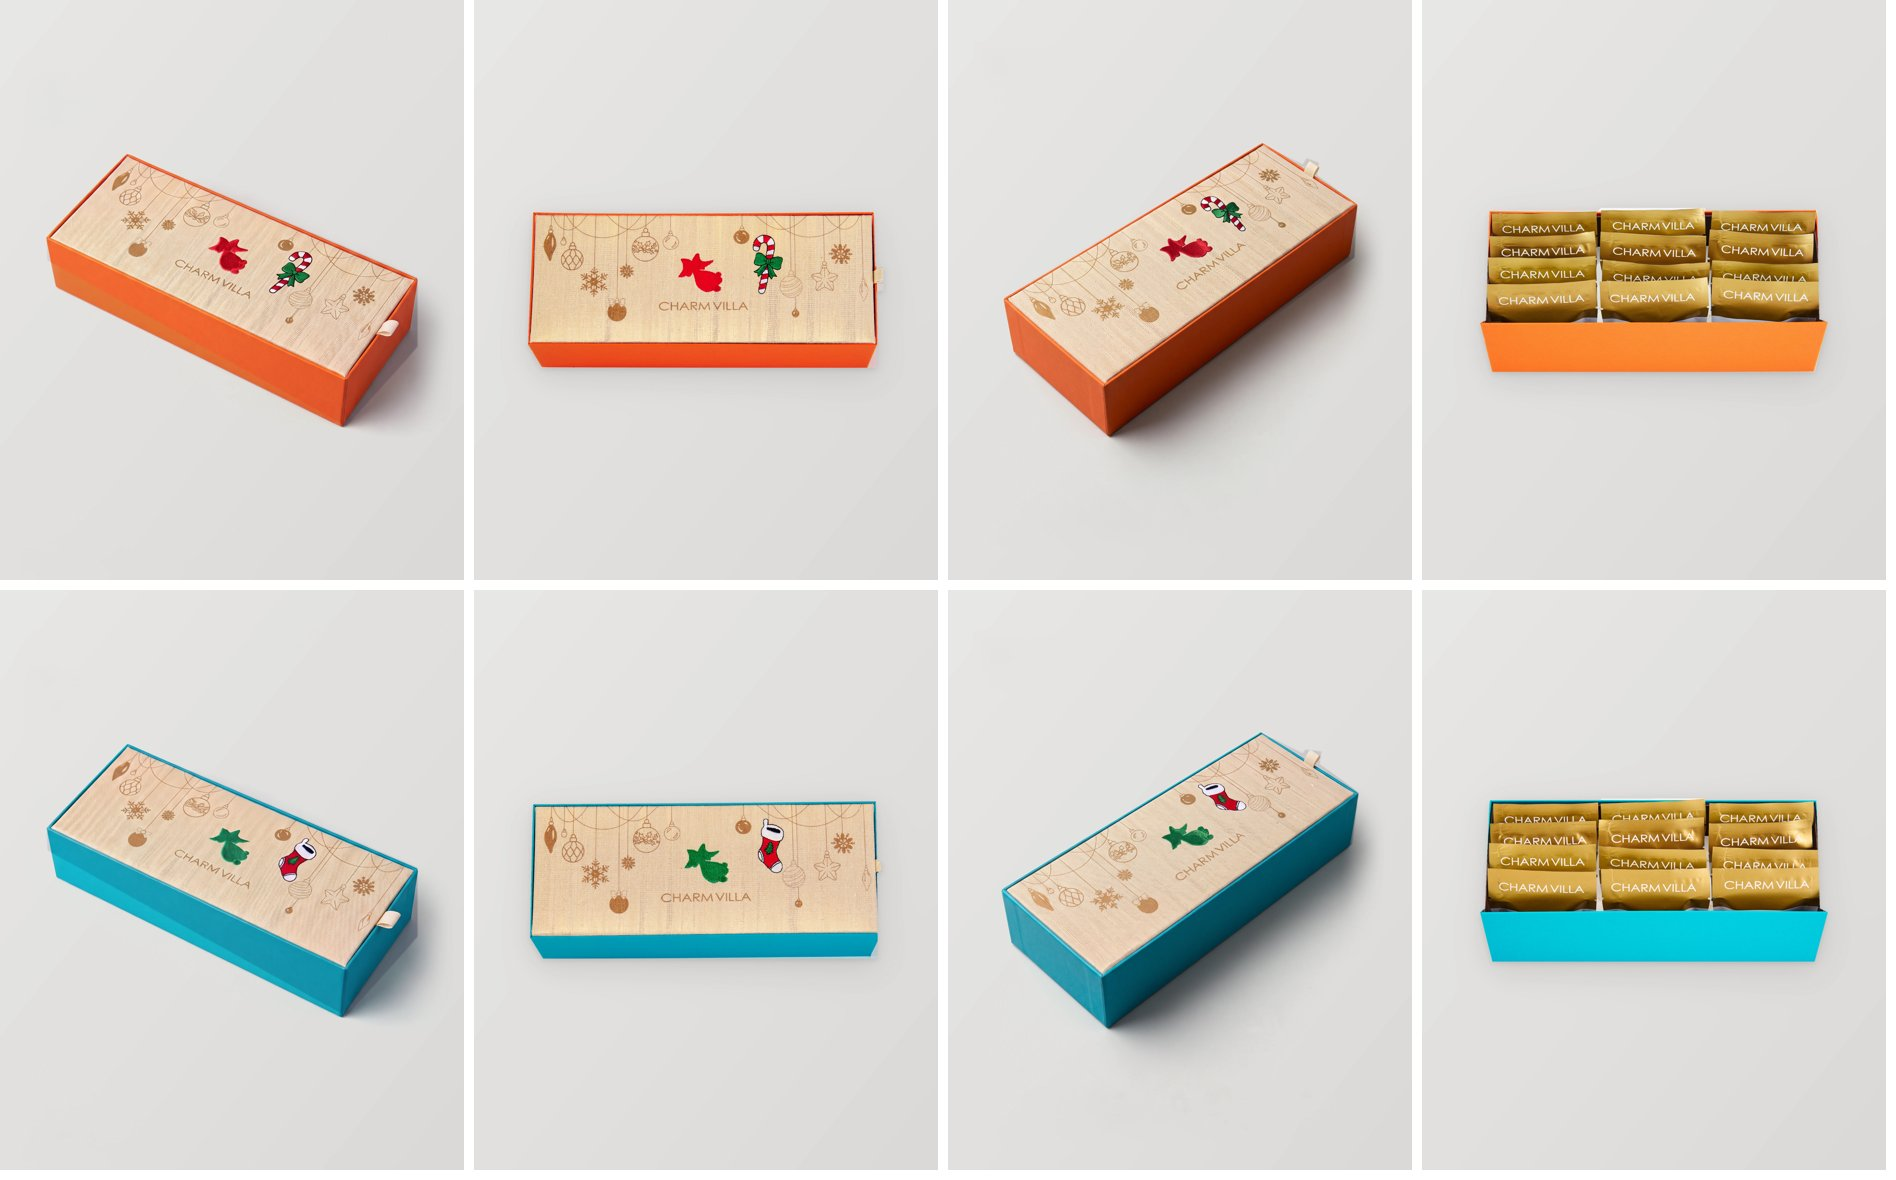
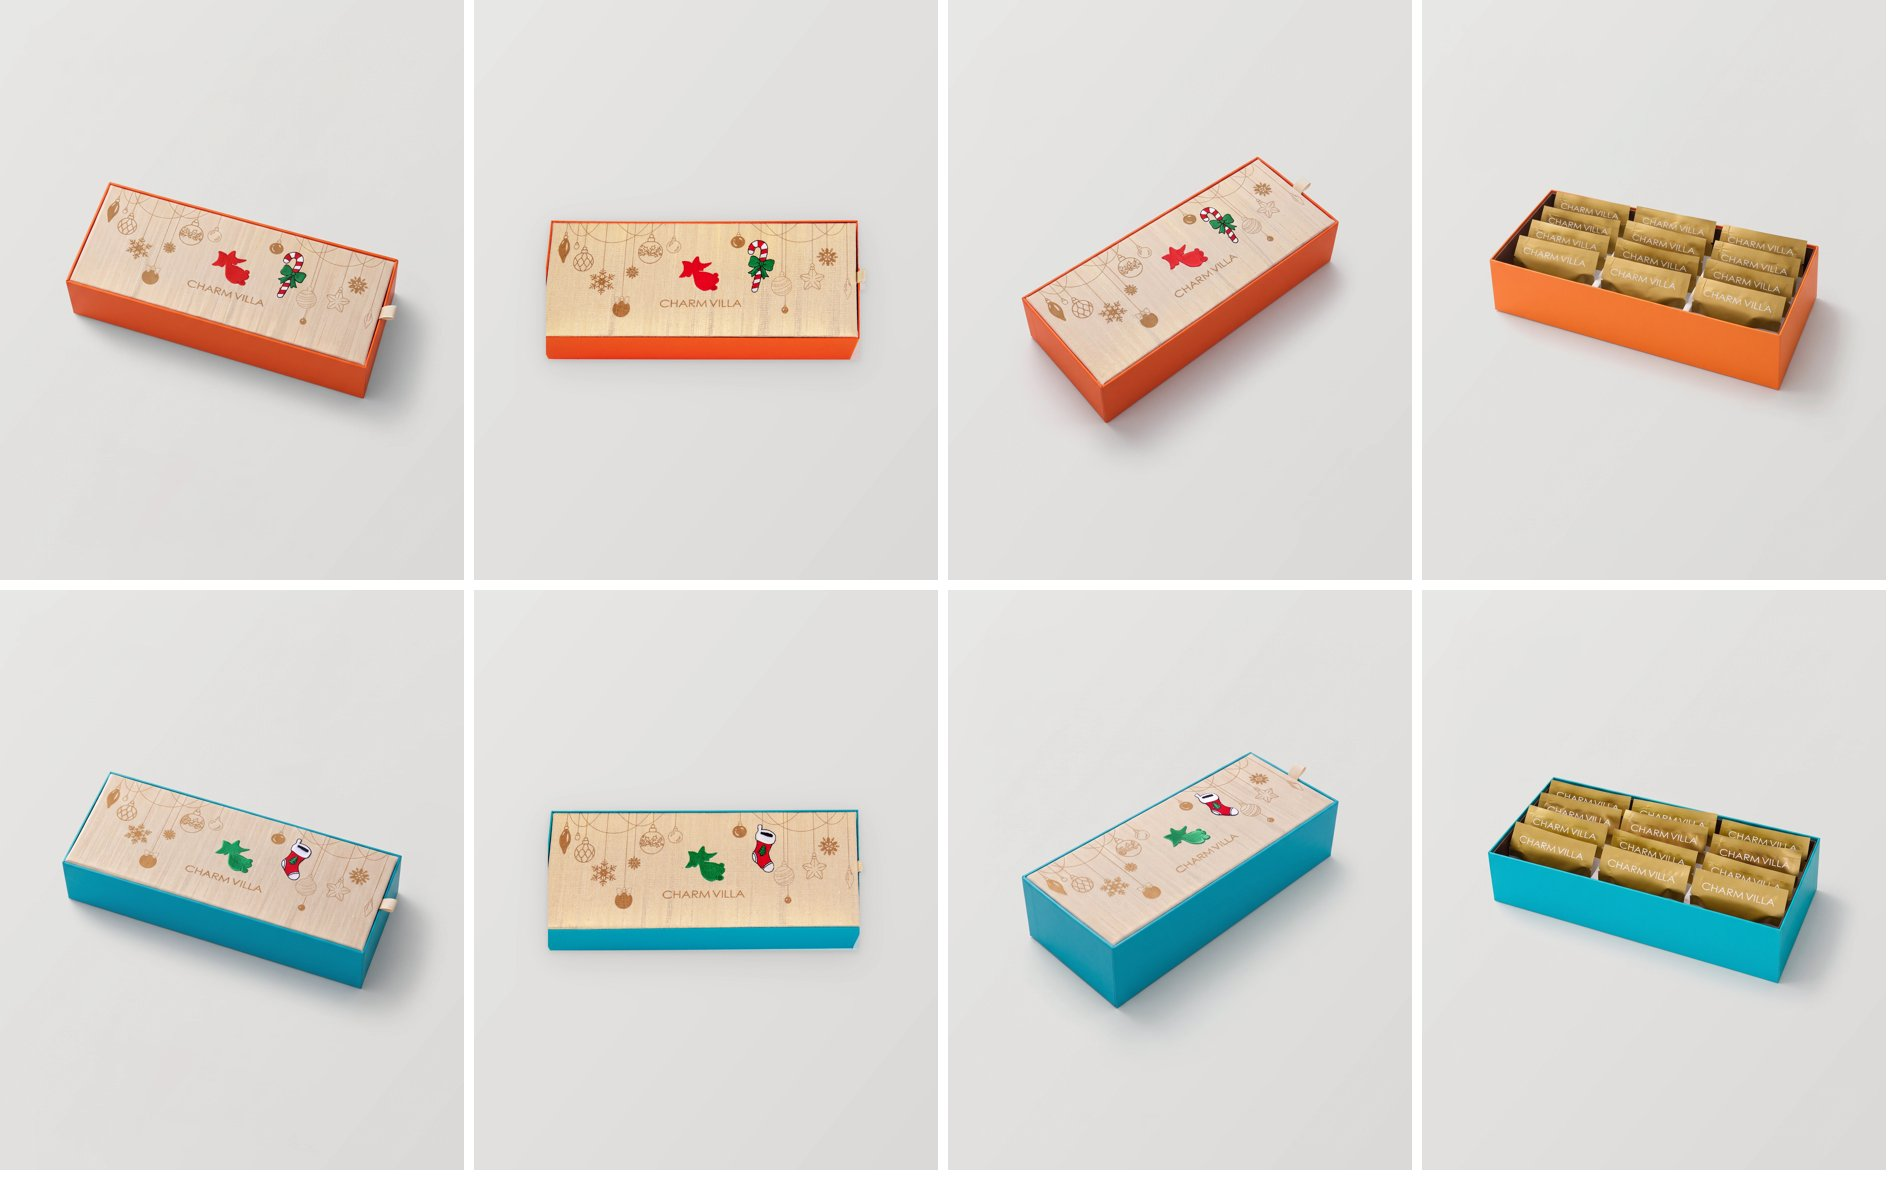
Christmas Delight: gallery redone in the site's studio style, price to be announced
User 2026-10-13: 「影子都處理得很醜！！！不要再犯，參考其他商品頁的攝影風格與影子處理的手法全部修正」, 「盒子外盒也有問題」,
「US$130 幫我用價格代訂，不要自己亂寫」.
- Cover, angle and unboxed (both lids) regenerated against the site's own same-view photographs (spring dawn cover,
  end angle, unboxed 12) for light and shadow: high-key, soft pale shadow to the lower right, no dark base line, no
  seam across the tray; normalised at norm.py 0.45 like every gift box. Fronts are the client's photographs
  perspective-corrected (the tray had become a trapezoid) and cut out the same way as the other fronts. New -v3 names.
- No invented price: priceTbd shows 價格待訂 / Price to be announced on the page and card, the bag button disabled.
- LESSONS.md: match the site's same-view photos for shadow, keystone close-up product photos, never invent a price.

diff --git a/src/data/tea-gifts.ts b/src/data/tea-gifts.ts
@@ -53,6 +53,8 @@ export type TeaGift = {
   soldOut?: boolean;
   /** made to order: a 預購 / Pre-order label beside the price and a 加入預購 / Pre-order button (ship timing still to come from the client) */
   preOrder?: boolean;
+  /** no price yet: 價格待訂 / Price to be announced instead of a price, and no bag button (user 2026-10-13: 「US$130 幫我用價格代訂，不要自己亂寫」) */
+  priceTbd?: boolean;
   /** not sold on the US store: kept out of every listing, menu, sitemap and product page (404), data kept */
   hidden?: boolean;
   variant?: { group: string; label: string };
@@ -168,11 +170,11 @@ export const teaGifts: TeaGift[] = [
   // 2026-10-13 agent 推理暫定，待客戶確認（確認表 F1–F8）（使用者 2026-10-13：「F1–F8 你先根據目前的官網推理，我再請客戶修改，先上 demo2」）。
   // officialId 9001 只是暫定的唯一值，台灣官網沒有這個商品編號（沒有官方商品圖、也不連到台灣官網）。
   // 兩色盒蓋同內容同價，用 packaging（選色＝切換圖庫）：橘色是預設圖庫，藍綠色用自己的 4 張圖（含自己的紙盒開箱圖，不用 12 入木盒的開箱圖）。
-  { officialId: 9001, slug: "christmas-gift-box", preOrder: true, sceneFile: "scene-christmas-gift-box-two-boxes-window-light.webp", name: "聖誕佳禮", english: "CHRISTMAS DELIGHT", series: "2026 聖誕節限定商品", pieces: 12, box: paperDrawerEmbroidered, dimensions: longBox, weight: 300, shelfLife: "1 年", contents: reunion, usd: 130,
+  { officialId: 9001, slug: "christmas-gift-box", preOrder: true, sceneFile: "scene-christmas-gift-box-two-boxes-window-light.webp", name: "聖誕佳禮", english: "CHRISTMAS DELIGHT", series: "2026 聖誕節限定商品", pieces: 12, box: paperDrawerEmbroidered, dimensions: longBox, weight: 300, shelfLife: "1 年", contents: reunion, priceTbd: true,
     packaging: [
       { label: { zh: "橘色", en: "Orange" }, text: { zh: "橘色盒蓋，紅色小金魚刺繡搭配拐杖糖。", en: "Orange lid with a red embroidered goldfish and a candy cane." } },
       { label: { zh: "藍綠色", en: "Teal" }, text: { zh: "藍綠色盒蓋，綠色小金魚刺繡搭配聖誕襪。", en: "Teal lid with a green embroidered goldfish and a Christmas stocking." },
-        lidViews: { cover: "studio-christmas-gift-box-teal-cover.webp", front: "studio-christmas-gift-box-teal-front.webp", angle: "studio-christmas-gift-box-teal-angle.webp", unboxed: "studio-christmas-gift-box-teal-unboxed.webp" } },
+        lidViews: { cover: "studio-christmas-gift-box-teal-cover-v3.webp", front: "studio-christmas-gift-box-teal-front-v3.webp", angle: "studio-christmas-gift-box-teal-angle-v3.webp", unboxed: "studio-christmas-gift-box-teal-unboxed-v3.webp" } },
     ],
     description: "CHARM VILLA「聖誕佳禮」禮盒內含 12 包金魚茶包，四款茶各 3 包，以抽屜式紙盒搭配刺繡織布盒蓋呈現。可選擇橘色或藍綠色盒蓋，為佳節送上一份溫暖的心意。",
     story: { title: { zh: "故事", en: "Story" }, body: { zh: "金色的吊飾與雪花垂落在盒蓋上，小金魚帶著拐杖糖與聖誕襪游進佳節。打開抽屜，十二尾小金魚茶包，陪你與重要的人共度溫暖的冬日時光。", en: "Gold baubles and snowflakes hang across the lid as a little goldfish swims into the season with a candy cane or a Christmas stocking. Slide open the drawer to find twelve Goldfish Tea Bags, ready for warm winter hours with the people who matter most." } },
@@ -297,10 +299,11 @@ export const teaGiftProductsFor = (lang: Locale): Product[] => {
       ...(gift.slug !== "fruit-infusion-gift-box" ? { brew: { title: t("沖泡方式", "How to brew"), steps: brewSteps(t), image: brewImage(t) } } : {}),
       ...(gift.soldOut ? { soldOut: true } : {}),
       ...(gift.preOrder ? { preOrder: true } : {}),
+      ...(gift.priceTbd ? { priceTbd: true } : {}),
       ...(gift.hidden ? { hidden: true } : {}),
       variant: gift.variant ? { group: gift.variant.group, label: v(gift.variant.label) } : undefined,
       officialUrl: `https://www.charmvilla.com.tw/product_d.php?lang=tw&tb=1&id=${gift.officialId}`,
-      price,
+      price: gift.priceTbd ? undefined : price,
       giftBox: { pieces: gift.pieces, series: v(gift.series), contents: gift.contents, choices: bagChoices, choiceLabel },
     };
   });

diff --git a/src/components/catalog/ProductCard.tsx b/src/components/catalog/ProductCard.tsx
@@ -10,13 +10,13 @@ import { translator, type Locale } from "@/i18n/config";
 // price stands alone, as on the collection pages.
 export default function ProductCard({ product, index = 0, animated = false, lang, caption }: { product: Product; index?: number; animated?: boolean; lang: Locale; caption?: string }) {
   const t = translator(lang);
-  const price = product.price && <>{formatPrice(product.price.amount, product.price.currency)}{product.soldOut && <span className="catalog-card-soldout tc">{t("售罄", "Sold out")}</span>}{product.preOrder && !product.soldOut && <span className="catalog-card-preorder tc">{t("預購", "Pre-order")}</span>}</>;
+  const price = !product.price && product.priceTbd ? <>{t("價格待訂", "Price to be announced")}{product.preOrder && <span className="catalog-card-preorder tc">{t("預購", "Pre-order")}</span>}</> : product.price && <>{formatPrice(product.price.amount, product.price.currency)}{product.soldOut && <span className="catalog-card-soldout tc">{t("售罄", "Sold out")}</span>}{product.preOrder && !product.soldOut && <span className="catalog-card-preorder tc">{t("預購", "Pre-order")}</span>}</>;
   return (
     <article className="catalog-card" data-catalog-card={product.slug} data-animation={animated ? "moveUp" : undefined} data-delay={animated ? (index % 3) * .1 : undefined}>
       <Link href={productHref(product, lang)} aria-label={t(`瀏覽 ${product.name}`, `View ${product.name}`)}>
         <div className={`catalog-card-image catalog-card-image--${product.category} catalog-card-image--${product.image.cutout ? "cutout" : "scene"}`}><Picture img={product.image} fill fit={imageFit(product.image)} animate={animated} sizes="(min-width:1280px) 25vw, (min-width:768px) 33vw, 50vw" />{product.hoverImage && <div className="catalog-card-hover" aria-hidden="true"><Picture img={product.hoverImage} fill fit="cover" animate={false} sizes="(min-width:1280px) 25vw, (min-width:768px) 33vw, 50vw" /></div>}</div>
         <h3 className="tc">{product.name}</h3>
-        {caption ? <p className="catalog-card-caption"><span className="tc">{caption}</span>{price && <span className="catalog-card-caption-price"> · {price}</span>}</p> : product.price && <p className="catalog-card-price">{price}</p>}
+        {caption ? <p className="catalog-card-caption"><span className="tc">{caption}</span>{price && <span className="catalog-card-caption-price"> · {price}</span>}</p> : price && <p className="catalog-card-price">{price}</p>}
       </Link>
     </article>
   );

diff --git a/src/data/catalog.ts b/src/data/catalog.ts
@@ -82,6 +82,7 @@ export type Product = {
   soldOut?: boolean;
   /** Made to order: labelled 預購 / Pre-order beside the price, card and bag button. */
   preOrder?: boolean;
+  priceTbd?: boolean;
   /** Shopify handle + variant GID from src/data/shopify-map.json; empty until the store is connected. */
   shopify?: { handle: string; variantId: string };
   /** How to brew (tea gift boxes, guide §4); `image` sits at the bottom left of the steps. */
@@ -505,9 +506,9 @@ const buildCatalog = (lang: Locale) => {
   // 聖誕佳禮（2026-10-13 agent 推理暫定，待客戶確認（確認表 F1–F8））：橘色盒蓋是預設圖庫，照其他 12 入禮盒的順序 封面（studio-listing.json）→ 正面實拍 → 斜角 → 開箱。
   // 紙盒，所以開箱用自己的 12 入圖，不在上面 12 入木盒（gift-box-unboxed-12-v2）的迴圈裡；藍綠色盒蓋的 4 張在 tea-gifts.ts 的 packaging.lidViews
   studioExtra["christmas-gift-box"] = [
-    { file: "studio-christmas-gift-box-orange-front.webp", zh: "橘色盒蓋・正面實拍", en: "Orange lid, front view", enAlt: "orange lid, front photograph" },
-    { file: "studio-christmas-gift-box-orange-angle.webp", zh: "橘色盒蓋・斜角", en: "Orange lid, angled view", enAlt: "orange lid, angled view" },
-    { file: "studio-christmas-gift-box-orange-unboxed.webp", zh: "橘色盒蓋・開箱 12 入", en: "Orange lid, unboxed · 12 tea bags", enAlt: "orange lid, the drawer opened to show 12 tea bags" },
+    { file: "studio-christmas-gift-box-orange-front-v3.webp", zh: "橘色盒蓋・正面實拍", en: "Orange lid, front view", enAlt: "orange lid, front photograph" },
+    { file: "studio-christmas-gift-box-orange-angle-v3.webp", zh: "橘色盒蓋・斜角", en: "Orange lid, angled view", enAlt: "orange lid, angled view" },
+    { file: "studio-christmas-gift-box-orange-unboxed-v3.webp", zh: "橘色盒蓋・開箱 12 入", en: "Orange lid, unboxed · 12 tea bags", enAlt: "orange lid, the drawer opened to show 12 tea bags" },
   ];
   // Photographs a product page leaves out (user 2026-10-01, on the coaster page: 「這 2 張不要」 — the box under branch shadows and the
   // flat lay of every wooden piece on stone).

diff --git a/src/components/cart/AddToCart.tsx b/src/components/cart/AddToCart.tsx
@@ -20,6 +20,6 @@ export default function AddToCart({ product }: { product: Product }) {
       {/* the chosen packaging in one line (user 2026-10-07: the 包裝選項 texts 「可以精簡呈現在這區」) */}
       {option !== undefined && choices[option]?.note && <p className="product-choice-note tc">{choices[option].note}</p>}
     </fieldset>}
-    <button type="button" className="product-buy tc" onClick={() => cart.add(product, 1, option)} disabled={cart.busy || missing || product.soldOut || noPrice}>{product.soldOut ? t("已售罄", "Sold out") : noPrice ? t("價格確認中", "Price coming soon") : missing ? (product.giftBox?.choiceLabel === t("選擇盒蓋顏色", "Choose your lid color") ? t("請先選擇盒蓋顏色", "Choose your lid color") : product.giftBox?.choiceLabel?.includes("包裝") || product.giftBox?.choiceLabel?.includes("packaging") ? t("請先選擇包裝", "Choose your packaging") : product.giftBox?.choiceLabel === t("選擇茶款與盒蓋顏色", "Choose your tea and lid color") ? t("請先選擇茶款與盒蓋顏色", "Choose your tea and lid color") : t("請先選擇茶款", "Choose your tea")) : product.preOrder ? t("加入預購", "Pre-order") : t("加入購物車", "Add to bag")}</button>
+    <button type="button" className="product-buy tc" onClick={() => cart.add(product, 1, option)} disabled={cart.busy || missing || product.soldOut || noPrice}>{product.soldOut ? t("已售罄", "Sold out") : noPrice ? (product.priceTbd ? t("價格待訂", "Price to be announced") : t("價格確認中", "Price coming soon")) : missing ? (product.giftBox?.choiceLabel === t("選擇盒蓋顏色", "Choose your lid color") ? t("請先選擇盒蓋顏色", "Choose your lid color") : product.giftBox?.choiceLabel?.includes("包裝") || product.giftBox?.choiceLabel?.includes("packaging") ? t("請先選擇包裝", "Choose your packaging") : product.giftBox?.choiceLabel === t("選擇茶款與盒蓋顏色", "Choose your tea and lid color") ? t("請先選擇茶款與盒蓋顏色", "Choose your tea and lid color") : t("請先選擇茶款", "Choose your tea")) : product.preOrder ? t("加入預購", "Pre-order") : t("加入購物車", "Add to bag")}</button>
   </>;
 }

diff --git a/src/app/[lang]/(catalog)/products/[slug]/page.tsx b/src/app/[lang]/(catalog)/products/[slug]/page.tsx
@@ -195,6 +195,7 @@ export default async function ProductPage({ params }: Props) {
           {lang === "zh" && <p className="product-english">{product.english}</p>}
           <h1 className="tc" id="product-name">{product.name}</h1>
           {/* the one-line descriptive copy under the name is gone site-wide (user 2026-10-05: 「刪除全站這層形容文案，並將重要的數字訊息整合到下面的 spec」) */}
+          {!product.price && product.priceTbd && <p className="product-price">{t("價格待訂", "Price to be announced")}{product.preOrder && <span className="product-preorder tc">{t("預購", "Pre-order")}</span>}</p>}
           {product.price && <p className="product-price">{product.giftBox?.choices?.some((c) => c.price && c.price !== product.price?.amount) ? t(`${formatPrice(product.price.amount, product.price.currency)} 起`, `From ${formatPrice(product.price.amount, product.price.currency)}`) : formatPrice(product.price.amount, product.price.currency)}{product.soldOut && <span className="product-soldout tc">{t("售罄", "Sold out")}</span>}{product.preOrder && !product.soldOut && <span className="product-preorder tc">{t("預購", "Pre-order")}</span>}</p>}
           <p className="product-description tc">{product.description}</p>
           {keyLines}

diff --git a/docs/qa/2026-10-13-christmas-gift-box/keystone.py b/docs/qa/2026-10-13-christmas-gift-box/keystone.py
@@ -1,0 +1,16 @@
+# straighten a cut-out front photo: map the box's traced quad (TL, TR, BR, BL) onto an upright rectangle
+import sys, json, numpy as np
+from PIL import Image
+src,dst,quad=sys.argv[1],sys.argv[2],json.loads(sys.argv[3])
+im=Image.open(src).convert('RGBA')
+(tlx,tly),(trx,try_),(brx,bry),(blx,bly)=quad
+L,R=min(tlx,blx),max(trx,brx); T,B=min(tly,try_),max(bly,bry)
+dstq=[(L,T),(R,T),(R,B),(L,B)]
+def coeffs(pa,pb):
+    A=[];b=[]
+    for (x,y),(X,Y) in zip(pa,pb):
+        A+= [[x,y,1,0,0,0,-X*x,-X*y],[0,0,0,x,y,1,-Y*x,-Y*y]]; b+=[X,Y]
+    return np.linalg.solve(np.array(A,float),np.array(b,float)).tolist()
+c=coeffs(dstq,quad)   # output coords -> input coords
+out=im.transform(im.size,Image.PERSPECTIVE,c,Image.BICUBIC)
+out.save(dst)

diff --git a/docs/agent/LESSONS.md b/docs/agent/LESSONS.md
@@ -2,6 +2,12 @@
 
 使用者糾正轉成可執行規則，最新放最上方。只記跨任務仍有用的行為，不複製單一頁面的像素規格或已能從程式碼直接看出的事實。
 
+## 2026-10-13
+
+- 當做新禮盒的商品圖時，一開始就拿網站同一視角的現有商品圖（例如 `listing-tea-spring-dawn-*-even2`、`studio-*-end-angle-even2`、`gift-box-unboxed-12-v2-even2`）當構圖＋光影＋影子參考，提示詞寫明「明亮高調、大面積柔光、淺暖灰底無暗角、影子淡而往右下漸淡、盒底無黑邊」；不要自己寫「靠盒底最深」這類硬影子。正規化一律用 `norm.py` 的 0.45（網站現行值），交付前和網站同類圖並排比大小、影子與底色（使用者：「影子都處理得很醜！！！不要再犯」）。
+- 當用客戶近拍的實拍照（正面、開箱）做圖庫時，先檢查鏡頭變形（外盒變梯形、看不到側面）；要透視校正成長方形再去背，否則外盒會像一張紙板（使用者：「盒子外盒也有問題」）。
+- 當要填客戶還沒給的價格時，不要自己推算數字放上網站；用「價格待訂／Price to be announced」並停用購物按鈕（使用者：「US$130 幫我用價格代訂，不要自己亂寫」）。其他推理的暫定事實要在資料旁註明待客戶確認。
+
 ## 2026-10-12
 
 - 當使用者給的參考圖是手機或網頁截圖時，先裁掉按鈕、圖示等介面元素再交給 AI；否則 AI 會把「造訪網站」之類的按鈕畫進成品。
